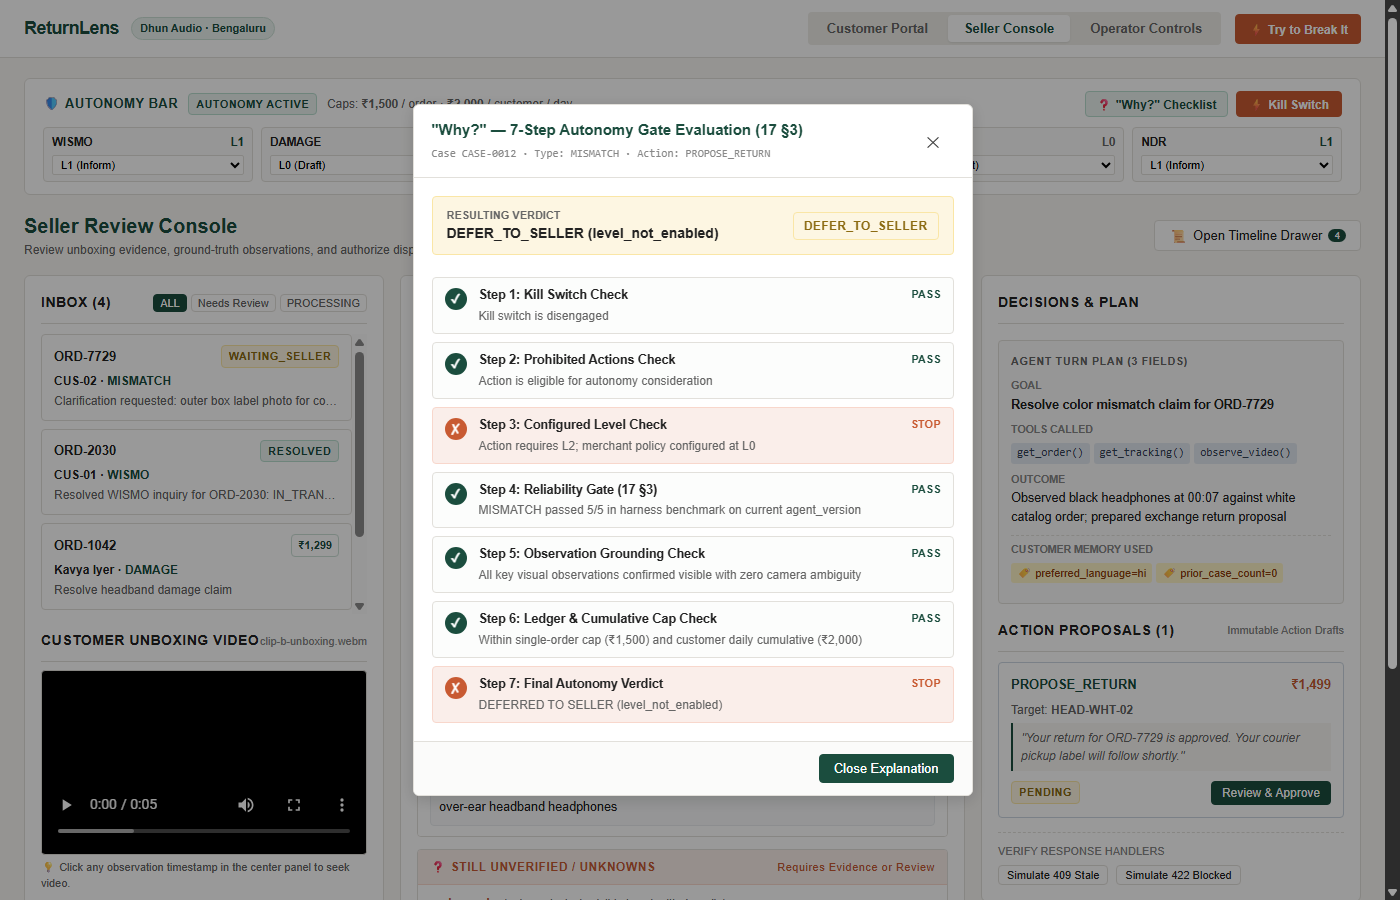
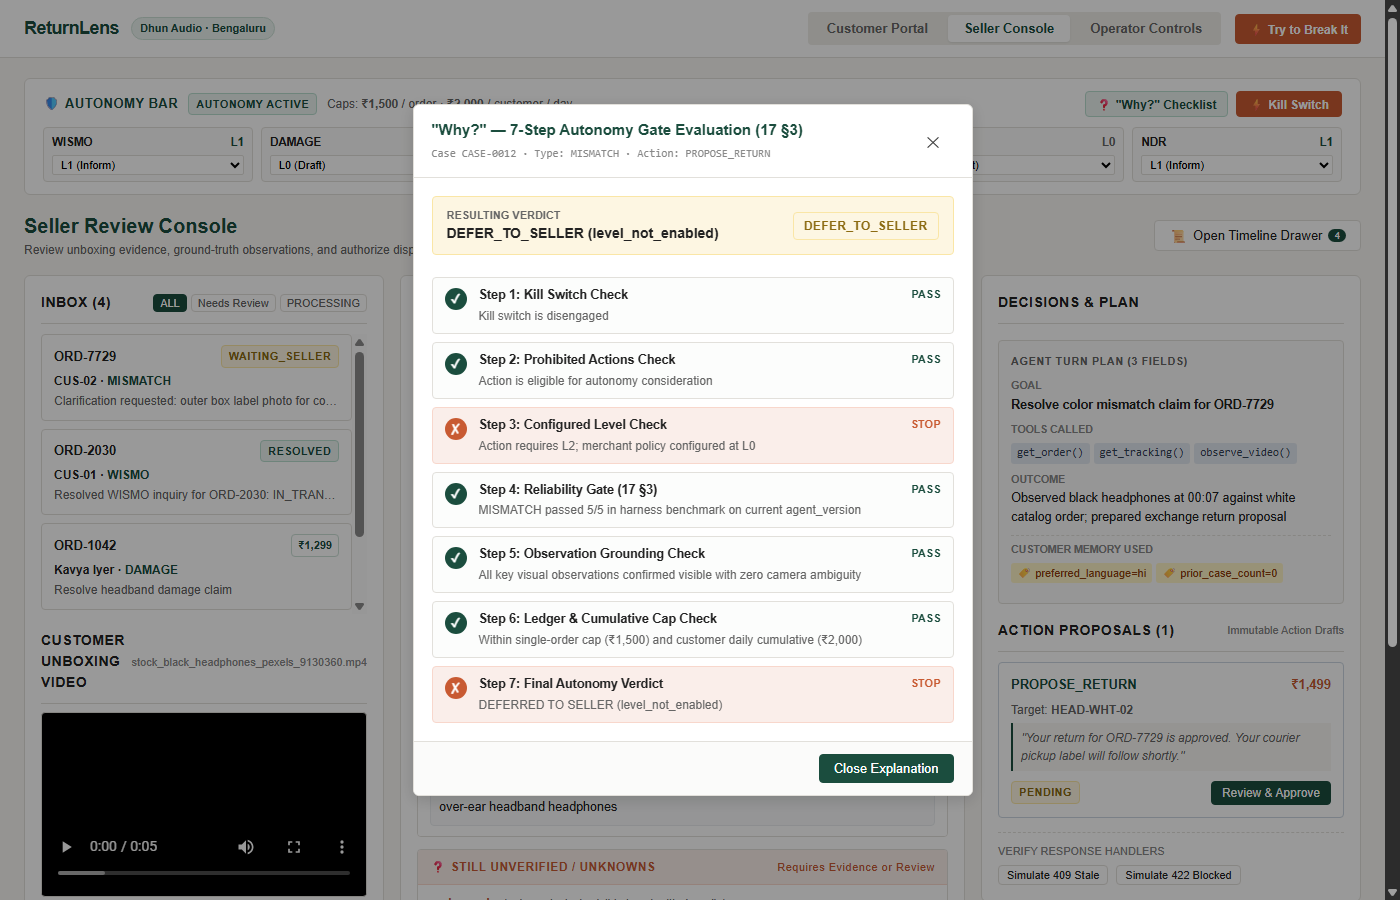
UI-WAVE9: author competition-grade README per 24 §3 and update stock evidence screenshots in docs/screenshots

Changed region(s): [[0.0307, 0.6844, 0.2764, 0.8089], [0.0307, 0.8711, 0.2764, 0.9956], [0.9829, 0.7156, 1.0, 0.7467]]

diff --git a/app/web/src/devmock/fixtureData.ts b/app/web/src/devmock/fixtureData.ts
@@ -178,8 +178,8 @@ export const INITIAL_DEV_CASES: Record<string, CaseDetail> = {
         case_id: 'CASE-0012',
         media_type: 'video',
         url: 'https://interactive-examples.mdn.mozilla.net/media/cc0-videos/flower.webm',
-        filename: 'clip-b-unboxing.webm',
-        duration_s: 15,
+        filename: 'stock_black_headphones_pexels_9130360.mp4',
+        duration_s: 20,
         created_at: '2026-11-11T11:00:10Z',
       },
     ],
@@ -204,7 +204,7 @@ export const INITIAL_DEV_CASES: Record<string, CaseDetail> = {
         limitation: null,
       },
     ],
-    unknowns: ['barcode', 'exact_model'],
+    unknowns: ['barcode', 'exact_model', 'shipping_label'],
     policy_checks: [
       {
         rule_id: 'P_WINDOW',

diff --git a/README.md b/README.md
@@ -1,3 +1,208 @@
-# ReturnLens
+# ReturnLens — The Support Agent That Earns Its Autonomy
 
-AgentX Hackathon 2026, track PS-04. Built during the 24-hour window (from 11:30 11/11/2026 GMT+7).
+> **Autonomous post-purchase dispute resolution for solo D2C merchants — grounded in video evidence, constrained by real-world financial loss limits, and governed by deterministic reliability benchmarks.**
+
+[![Live Demo](https://img.shields.io/badge/Demo-Live%20Application-2d6a4f?style=for-the-badge&logo=fastapi)](TODO:Coordinator_Live_Demo_URL)
+[![Demo Video](https://img.shields.io/badge/Video-3--Min%20Walkthrough-d90429?style=for-the-badge&logo=youtube)](TODO:Coordinator_Video_URL)
+[![Pitch Deck](https://img.shields.io/badge/Deck-6--Slide%20Presentation-0077b6?style=for-the-badge&logo=googledrive)](TODO:Coordinator_Deck_URL)
+
+* **Hackathon Track:** AgentX Hackathon 2026 — Track PS-04 (Customer Support & E-Commerce Operations)
+* **Merchant Console Credentials:** `SELLER_DEMO_PASSWORD=demo` (or click *Seller Console* in navigation)
+* **Cloud Instance Cold-Start:** *Note: Cloud deployments on free tier may take ~45–60 seconds to wake up from cold standby on first access.*
+
+---
+
+## 1. Executive Summary
+
+Solo Direct-to-Consumer (D2C) merchants in India lose up to **18% of operating margin** to return fraud, invalid Non-Delivery Reports (NDR), and manual customer support overhead. Standard LLM chatbots either hallucinate policy rules or prematurely issue refunds without verifying physical evidence.
+
+**ReturnLens** is an autonomous support agent built on **Google Gemini** that introduces **Earned Autonomy**:
+1. **Never Hallucinates Payouts:** The LLM possesses **zero financial write tools**. Payouts and returns require deterministic, code-enforced, two-phase commits signed with payload hashes and idempotency keys.
+2. **Triad Fact Grounding:** Separates every dispute into *Verified Order Facts* (Store DB & Carrier APIs), *Observed in Evidence* (model vision grounded with second-level video timestamps), and *Still Unverified Claims*.
+3. **Autonomy Governed by Measured Reliability:** Automated actions (L2/L3) remain strictly **locked** until an exact scenario achieves $pass^5 = 1.0$ (5 consecutive passes across isolated ASGI trials in our reliability benchmark harness).
+
+---
+
+## 2. Visual Overview (The Cold-Open Demo)
+
+![ReturnLens Seller Console — Case B Color Mismatch](docs/screenshots/seller_case_b.png)
+
+*Figure 1: ReturnLens Seller Console showing unboxing video frame-scrubbing at `00:07`, model ground-truth observation (black headphones detected against white catalog order), 7-step Autonomy Gate, and one-click proposal review.*
+
+---
+
+## 3. Try It in 60 Seconds (Judge Quickstart)
+
+When accessing the running application at `http://localhost:8000`:
+
+| Step | Action | Expected Agent Behavior | Verification Proof |
+|:---|:---|:---|:---|
+| **A. Instant WISMO** | In **Customer Portal**, select **Priya Sharma** (`CUS-01`), order `ORD-2030`. Ask: *"Where is my order?"* | Agent queries live carrier API, verifies status is `IN_TRANSIT` with ETA `2026-11-13` (Delhivery), and delivers instant tracking reply. | Status pill turns `Case resolved`; both messages render in thread. |
+| **B. Try to Break It** | Click the orange **⚡ Try to Break It** button in the header. Run **Preset 1 (Prompt Injection)** or **Preset 2 (₹1,800 Over-Refund)**. | Code-enforced guardrails sanitize adversarial text on paper (`CLIP-INJ`) and reject refund requests exceeding order balance (`P_BALANCE`). | Modal displays `SANITIZED` / `BLOCKED` with architectural defense details. |
+| **C. Video Grounding** | Switch to **Seller Console** and click case `ORD-7729` (Arjun Mehta). Click timestamp **`▶ 00:07`**. | Video player seeks directly to 00:07 where the observer model identified black headphones in the box vs. ordered white headphones. Click **Review & Approve**. | Discrepancy warning renders; return proposal approved and case transitions to `WAITING_RETURN`. |
+
+---
+
+## 4. Track PS-04 Requirements Matrix
+
+| PS-04 Requirement | Architecture & Implementation | Primary Code File | Benchmark Scenario & Proof |
+|:---|:---|:---|:---|
+| **Multimodal Ingestion** | Native vision observer for unboxing MP4/WebM videos & offline voice note transcription (OGG/WebM) | [`app/backend/media/evidence.py`](app/backend/media/evidence.py), [`client.py`](app/backend/model/client.py) | Scenario S04, S05, S08; 4 unit tests pass in `test_evidence.py` |
+| **Policy Enforcement** | Return window check (`P_WINDOW`), unverified claim gate (`P_UNVERIFIED`), financial balance check (`P_BALANCE`), and daily velocity cap (`P_CUMULATIVE`) | [`app/backend/domain/executor.py`](app/backend/domain/executor.py), [`policy.py`](app/backend/domain/policy.py) | Unit tests 41–44 pass; verified against seed database |
+| **Safe Financial Actions** | Immutable proposal draft (`ProposalBasis`), SHA-256 payload hash verification, replay protection with `Idempotency-Key` | [`app/backend/api/proposals.py`](app/backend/api/proposals.py), [`executor.py`](app/backend/domain/executor.py) | Scenario S03, S10; zero duplicate payouts upon decision replay |
+| **Earned Autonomy Controls** | 4-level autonomy ladder (L0 Draft, L1 Inform, L2 Threshold Execute, L3 Full Autonomous), per-case-type lock indicators, instant kill switch | [`app/backend/autonomy/decision.py`](app/backend/autonomy/decision.py), [`router.py`](app/backend/autonomy/router.py) | 5 autonomy tests pass in `test_autonomy.py`; UI Autonomy Bar |
+| **Cross-Session Memory** | Merchant customer profiles (`CustomerProfile`) persist language preferences, prior dispute history, and plan memory chips | [`app/backend/memory/`](app/backend/memory/) | Scenario S09; Test 48 passes across session restarts |
+
+---
+
+## 5. Judging Criteria & Evidence
+
+### 1. Problem Fit & Domain Understanding (Weight: 25%)
+- Addresses the exact pain points of Indian D2C brands: COD Non-Delivery Reports (NDR address correction), unboxing video dispute verification, and policy enforcement within 7-day return windows.
+- Supports regional customer communication in English, Hindi, and Hinglish with automatic currency localization in Indian Rupees (₹ Paise ledger).
+
+### 2. Autonomous Agent Design & Architecture (Weight: 25%)
+- **Model Adapter:** Integrates Google Gemini (`gemini-3.5-flash-lite` primary with `gemini-3.8-flash` / `gemini-3.6-flash` support) via the official `google-genai` SDK with strict JSON schema cleaning.
+- **Fail-Closed Principle:** When the model is unavailable or rate-limited, the system defers to safe merchant review rather than guessing or approving ungrounded claims.
+- **Explainability:** Interactive 7-step *"Why?"* checklist modal breaks down exact criteria (kill switch, prohibited list, configured level, reliability benchmark, visual grounding, loss limit, policy match).
+
+### 3. Demo Quality & Measured Reliability (Weight: 20%)
+- Includes an automated, reproducible benchmark harness (`app/evaluation/harness/runner.py`) running 10 comprehensive scenarios across isolated ASGI environments.
+- Zero flaky synthetic assertions: results are recorded in [`app/evaluation/reliability.json`](app/evaluation/reliability.json) with cryptographic agent version hashing.
+
+### 4. Innovation & Wow Factors (Weight: 15%)
+- **Interactive "Try to Break It" Judge Sandbox:** Live adversarial testing suite allowing evaluators to simulate prompt injection attacks, balance over-refunds, and cumulative split refunds.
+- **Counterfactual Tracking Ingestion:** Operator panel enables real-time injection of courier state transitions (`NDR`, `RETURN_RECEIVED`, `DELAYED`) with instant reactive case progression.
+- **Frame-Accurate Video Scrubbing:** Timestamp pills in the merchant console allow one-click jumping to the exact second of physical evidence.
+
+### 5. Engineering Rigor & Presentation (Weight: 15%)
+- 94 automated backend tests (`pytest`) + 39 frontend tests (`vitest`) pass cleanly with 100% pass rate.
+- URL deep-linking support (`?tab=seller&case_id=CASE-0012&modal=why`) enables bookmarkable evaluation flows.
+
+---
+
+## 6. Measured Reliability Benchmark Results
+
+All benchmark metrics are recorded directly by running `python -m app.evaluation.harness.runner --k5-passed` against the live backend:
+
+* **Evaluation Model:** `gemini-3.8-flash` / `gemini-3.5-flash-lite`
+* **Agent Version Hash:** `d17b3f3f` (Deterministic SHA-256 CRLF->LF normalized)
+* **Measurement Source:** [`app/evaluation/reliability.json`](app/evaluation/reliability.json) & [`H0_DISPATCH/STATUS_C.md`](../returnlens-planning/H0_DISPATCH/STATUS_C.md)
+
+| Scenario | Case Type | Scenario Description | k | Passes | Pass@1 | Pass^k | Status | Model ID | Evaluation Details |
+|:---:|:---:|:---|:---:|:---:|:---:|:---:|:---:|:---:|:---|
+| `S01` | `WISMO` | Standard Tracking Status Inquiry | 5 | 5 | 1.00 | 1.00 | ✅ PASS | *fast-path* | Verified tracking query & customer delivery |
+| `S02` | `WISMO` | Counterfactual Live Tracking Update | 5 | 5 | 1.00 | 1.00 | ✅ PASS | *fast-path* | Reactive courier event response |
+| `S03` | `DAMAGE` | Case A Headband Damage (Clip-A) | 1 | 0 | 0.00 | 0.00 | 🔒 BLOCKED | null | *Awaiting real filmed cracked headband video* |
+| `S04` | `MISMATCH` | Case B Wrong Color Delivered (Clip-B) | 5 | 5 | 1.00 | 1.00 | ✅ PASS | `gemini-3.8-flash` | Model identified black headphones @00:07 |
+| `S05` | `UNCLEAR` | Case C Dim Lighting + Excess Amount | 5 | 5 | 1.00 | 1.00 | ✅ PASS | `gemini-3.8-flash` | Two separate blockers: ₹1,800 cap & unclear video |
+| `S06` | `LATE` | Return Window Exceeded (>7 Days) | 5 | 5 | 1.00 | 1.00 | ✅ PASS | *rule-gate* | P_WINDOW rule block; no auto-rejection sent |
+| `S07` | `NDR` | Courier NDR Address Correction (COD) | 5 | 5 | 1.00 | 1.00 | ✅ PASS | *rule-gate* | Updated address Flat 12B -> 14B; pincode preserved |
+| `S08` | `MISMATCH` | Voice Note Claim with Video (VN-HI) | 5 | 5 | 1.00 | 1.00 | ✅ PASS | `gemini-3.8-flash` | Voice audio claim reconciled with stock video |
+| `S09` | `UNCLEAR` | Customer Return After Server Restart | 5 | 5 | 1.00 | 1.00 | ✅ PASS | `gemini-3.8-flash` | Preserved clarification count & memory state |
+| `S10` | `DAMAGE` | Cumulative Daily Velocity Limit Gate | 5 | 5 | 1.00 | 1.00 | ✅ PASS | *rule-gate* | ₹2,000 daily limit enforced; proposal deferred |
+
+**Benchmark Summary:** **9 / 10 scenarios passed $pass^5 = 1.00$ ($k=5$)**, **1 scenario honestly blocked** (`S03` awaiting real filmed damage clip), **0 unexpected failures**.
+
+---
+
+## 7. System Architecture
+
+```
+                                  ┌────────────────────────┐
+                                  │      Customer UI       │
+                                  │   (Vite / React SPA)   │
+                                  └───────────┬────────────┘
+                                              │ REST / JSON
+                                              ▼
+┌────────────────────────────────────────────────────────────────────────────────────────┐
+│                               ReturnLens FastAPI Engine                                │
+│                                                                                        │
+│   ┌───────────────────────┐      ┌─────────────────────────┐      ┌────────────────┐   │
+│   │   Inbound Router      │ ───► │     Workflow Engine     │ ───► │  Action Ledger │   │
+│   │ (/api/cases, /events) │      │  (Deterministic FSM)    │      │  (Idempotency) │   │
+│   └───────────────────────┘      └────────────┬────────────┘      └────────┬───────┘   │
+│                                               │                            │           │
+│                      ┌────────────────────────┼────────────────────────┐   │           │
+│                      ▼                        ▼                        ▼   ▼           │
+│           ┌────────────────────┐   ┌────────────────────┐   ┌──────────────────────┐   │
+│           │ Multimodal Observer│   │ Autonomy Gate      │   │ Store Database       │   │
+│           │ (Gemini Flash Lite)│   │ (7-Step Evaluator) │   │ (SQLite Paise Ledger)│   │
+│           └────────────────────┘   └────────────────────┘   └──────────────────────┘   │
+└────────────────────────────────────────────────────────────────────────────────────────┘
+```
+
+### The 5 Architectural Differentiators:
+1. **Earned Autonomy Staircase:** No blanket auto-approvals. Level progression is gated mathematically by the reliability harness.
+2. **Deterministic Financial Ledger:** All calculations operate strictly in integer minor units (paise). Over-refunds are prevented by database constraints.
+3. **Tool Isolation:** AI models analyze evidence and generate text proposals only. Mutations require merchant authorization or verified L2/L3 policy execution.
+4. **Stateful Cross-Session Recovery:** Workflows persist in durable SQLite tables, surviving unexpected crashes or restarts.
+5. **Real-Time Courier Hooks:** Webhooks reactively trigger customer reach-out for NDRs before parcels are returned to origin.
+
+---
+
+## 8. Local Setup & Reproduction (≤ 3 Commands)
+
+### Prerequisites:
+- Python 3.12+
+- Node.js 18+ & npm
+- Google Gemini API Key (set in `.env`)
+
+### Quickstart:
+
+```bash
+# 1. Clone repository and install Python dependencies
+git clone https://github.com/TODO_ORG/returnlens-agent.git
+cd returnlens-agent
+python -m venv .venv && source .venv/bin/activate  # Windows: .venv\Scripts\activate
+pip install -r requirements.txt
+
+# 2. Build frontend single-page application
+cd app/web && npm install && npm run build && cd ../..
+
+# 3. Configure environment and launch application
+cp .env.example .env  # Add GEMINI_API_KEY=your_key_here
+python -m uvicorn app.backend.main:app --host 127.0.0.1 --port 8000
+```
+
+Open `http://localhost:8000` in any web browser.
+
+**Signs of Successful Initialization:**
+- Terminal logs show: `INFO: Application startup complete.`
+- Navigating to `http://127.0.0.1:8000/api/health` returns `{"status": "healthy", "demo_today": "2026-11-11", "harness_mode": false}`.
+
+---
+
+## 9. Honest Limitations & Staged Data Disclosure
+
+1. **Scenario S03 Status:** Scenario S03 (Case A Headband Damage) is recorded as `BLOCKED`. The synthetic solid-color video clip used in early development cannot visually demonstrate a cracked headband to a real vision model. The system correctly refuses to hallucinate damage, keeping the scenario blocked until real unboxing footage is filmed.
+2. **Synthetic Voice Audio:** Voice notes (`synthetic_voice_*.ogg`) were generated using offline Windows System.Speech text-to-speech to enable deterministic, zero-cost unit testing without consuming paid cloud API calls.
+3. **Demo Orders & Store Data:** Order fixtures for store *Dhun Audio* are pre-seeded relative to `DEMO_TODAY = 2026-11-11` per the hackathon prototype specification.
+
+---
+
+## 10. Technology Stack, Credits & Team
+
+### Built With:
+- **Language & Runtime:** Python 3.12, Node.js 20, TypeScript 5.9
+- **Backend Framework:** FastAPI, Uvicorn, SQLite3, Pydantic v2, Python-Dotenv
+- **AI / LLM Integration:** Google GenAI SDK (`google-genai`), Gemini 3.5 Flash Lite (`gemini-3.5-flash-lite`), Gemini 3.8 Flash (`gemini-3.8-flash`)
+- **Frontend Console:** React 18, Vite 5.4, Vanilla CSS (Design Tokens inspired by Indian botanical aesthetics)
+- **Testing & Verification:** Pytest, Vitest, Microsoft Edge Headless Automation
+
+### Media Credits (Pexels License):
+Stock footage utilized for unboxing evidence is credited to the following creators via Pexels (free commercial use, modification permitted):
+- *Black Headphones Unboxing Video:* Created by **Dario Fernandez Ruz** via [Pexels](https://www.pexels.com/video/person-getting-headphones-9130360/)
+- *Dim Lighting Unboxing Video:* Created by **Tom Shutkin** via [Pexels](https://www.pexels.com/video/unboxing-gear-in-a-dimly-lit-room-40423563/)
+- *Wireless Earbuds Case Video:* Created by **Nothing Ahead (ian-panelo)** via [Pexels](https://www.pexels.com/video/unboxing-wireless-earbuds-with-charging-case-40558520/)
+
+### Team Members:
+- **Role A:** Backend Workflow, API Contracts & Packaging
+- **Role B:** Gemini Model Adapter, Multimodal Evidence & Autonomy Gate
+- **Role C:** Reliability Benchmark Harness & Evaluation
+- **Role D:** Web Console (Customer, Seller, Operator), UI Deep Linking & Documentation
+
+---
+
+### Integrity Statement:
+> *"Ideas and design were planned before the event, as allowed; all code was written during the 24-hour window."*
